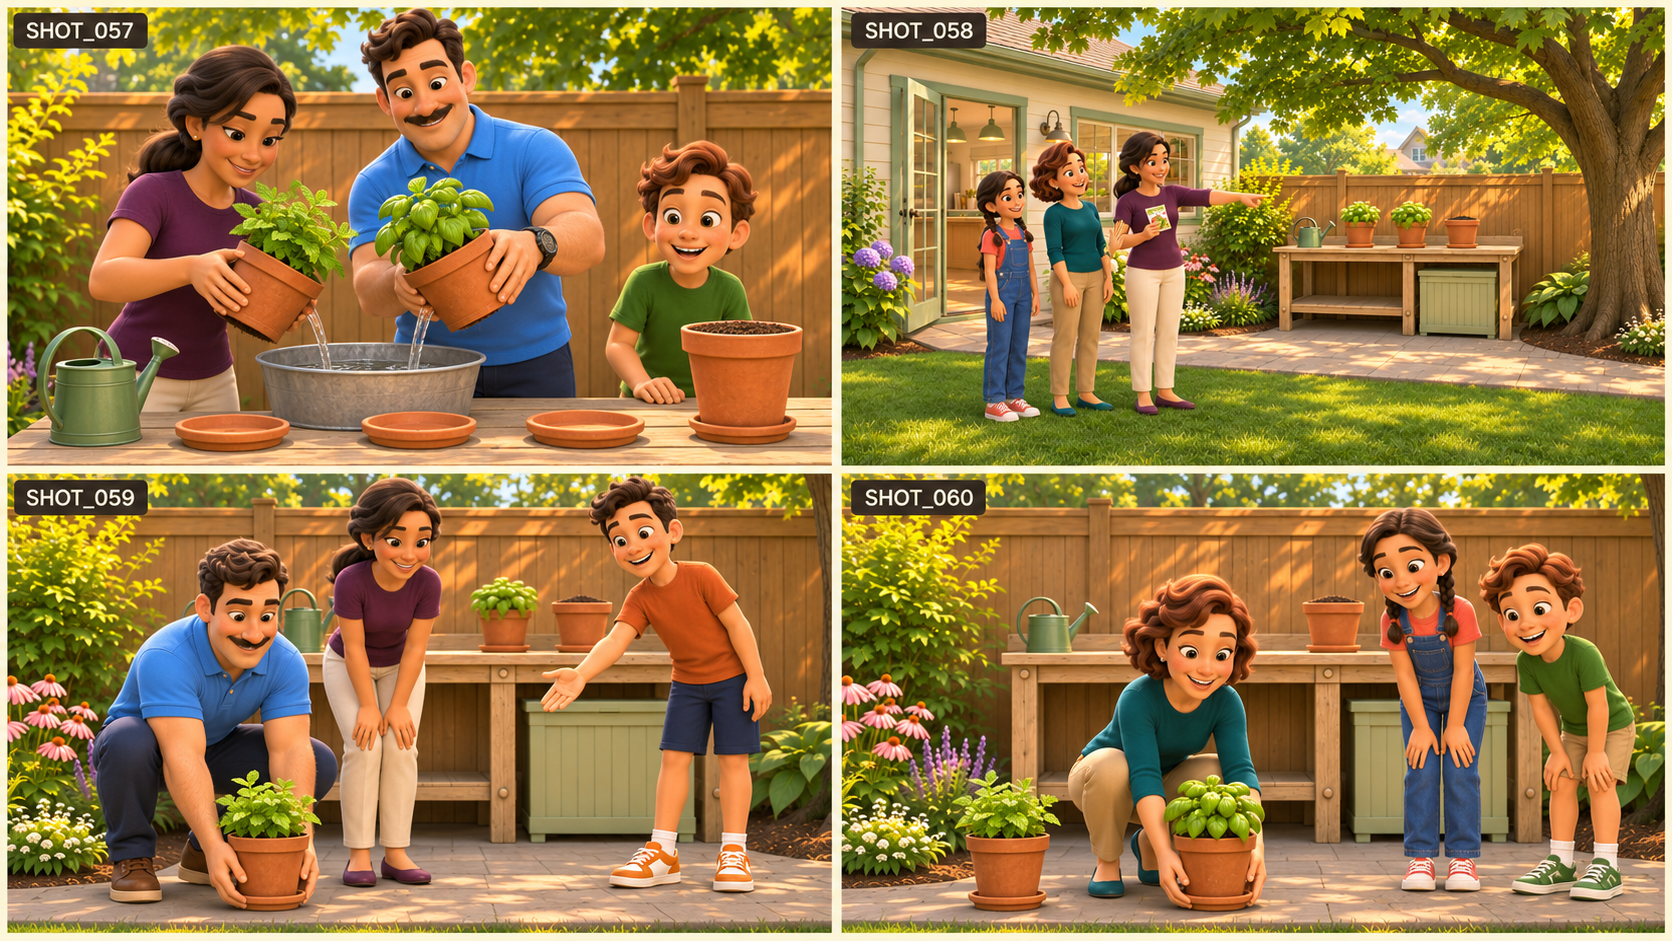
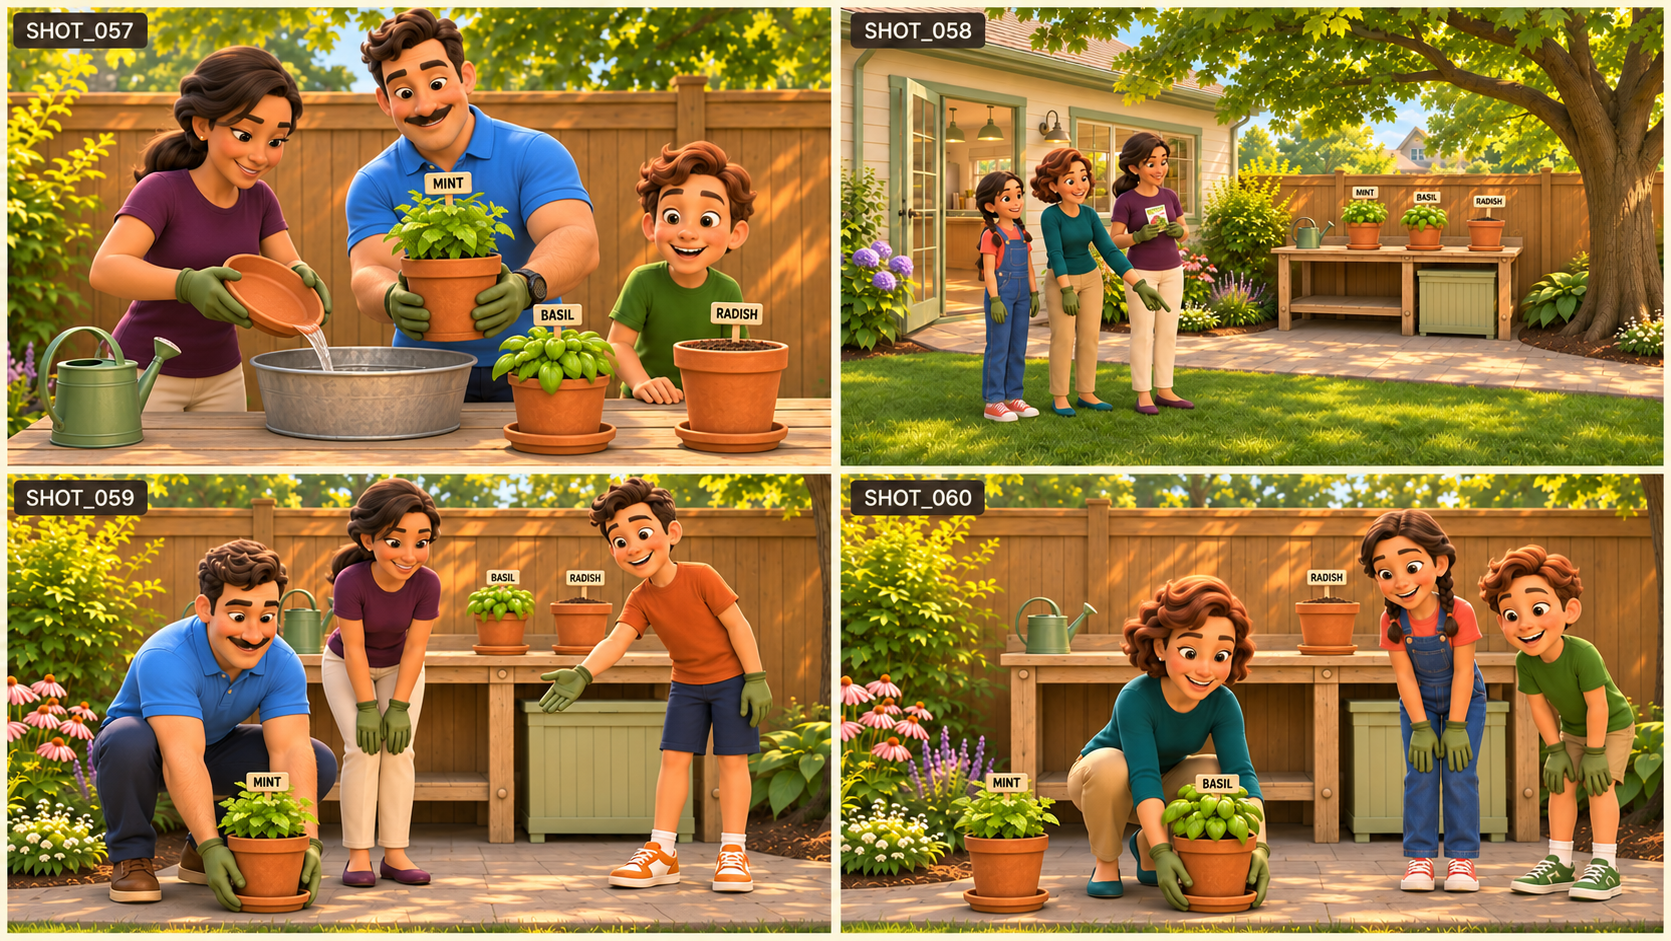
Correct garden saucer drainage and labelled pot transfers

diff --git a/docs/STORYBOARD_REPAIR_LOG.md b/docs/STORYBOARD_REPAIR_LOG.md
@@ -8,7 +8,8 @@ The active request is to fix the selected storyboard PNGs themselves. Video-prom
 |---|---|---|
 | 01 / BOARD_04 | SHOT_013 now shows Ella raising four fingers for the four carrots. All four panels and printed shot badges were rechecked. | [Selected sheet](../Episode_01/assets/storyboards/BOARD_04.png) · [Correction record](../artwork_qa/records/ep01-board04-counting-correction.json) |
 | 08 / BOARD_08 | SHOT_032 shoes replaced with socks; six flat punched tags restored in031/032;031 points to first cube.029 pointing still needs repair. | [Selected sheet](../Episode_08/assets/storyboards/BOARD_08.png) · [Correction record](../artwork_qa/records/ep08-board08-socks-and-tabs-correction.json) |
+| 09 / BOARD_15 | Saucer-only drainage and plant labels restored;059/060 transfers now include gloves and saucers.057 Max gloves and058 paved-path blocking remain unresolved. | [Selected sheet](../Episode_09/assets/storyboards/BOARD_15.png) · [Correction record](../artwork_qa/records/ep09-board15-drainage-and-label-correction.json) |
 
-Current QA inventory: **323 shots with major visual defects; 477 awaiting human review**. Selected repairs remove only the visually verified discrepancies recorded above. Creator acceptance and individual motion-frame approval remain pending. Other storyboard defects have not been declared fixed.
+Current QA inventory: **321 shots with major visual defects; 479 awaiting human review**. Selected repairs remove only the visually verified discrepancies recorded above. Creator acceptance and individual motion-frame approval remain pending. Other storyboard defects have not been declared fixed.
 
 Each selected edit preserves the prior image through its parent Git commit, retains the returned ImageGen source, updates all four panel evidence hashes and records what was visually confirmed. The Episode 01 printed-label audit is refreshed against the new pixels. Corrections are committed and pushed as checkpoints before requesting the next image.
